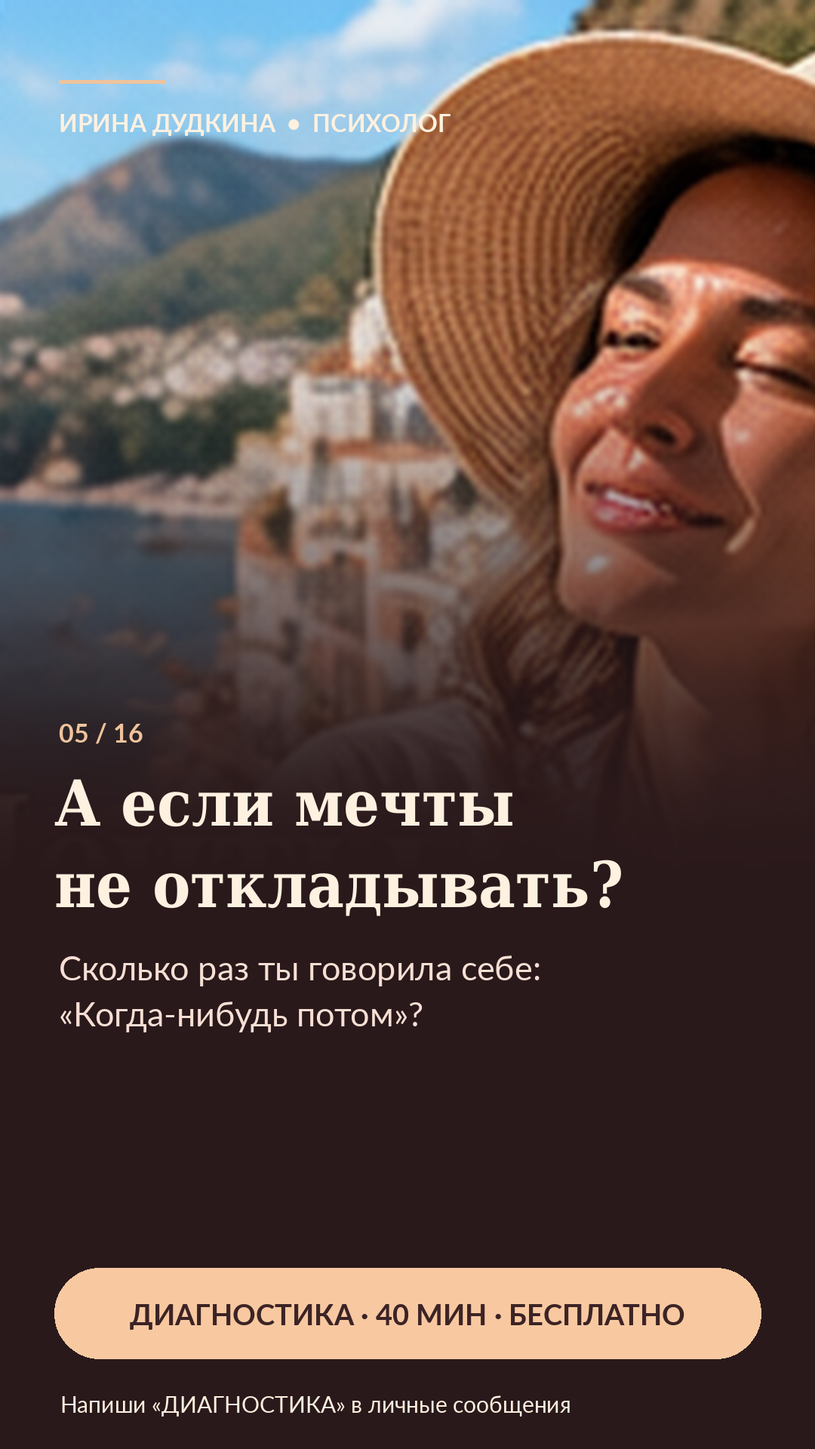
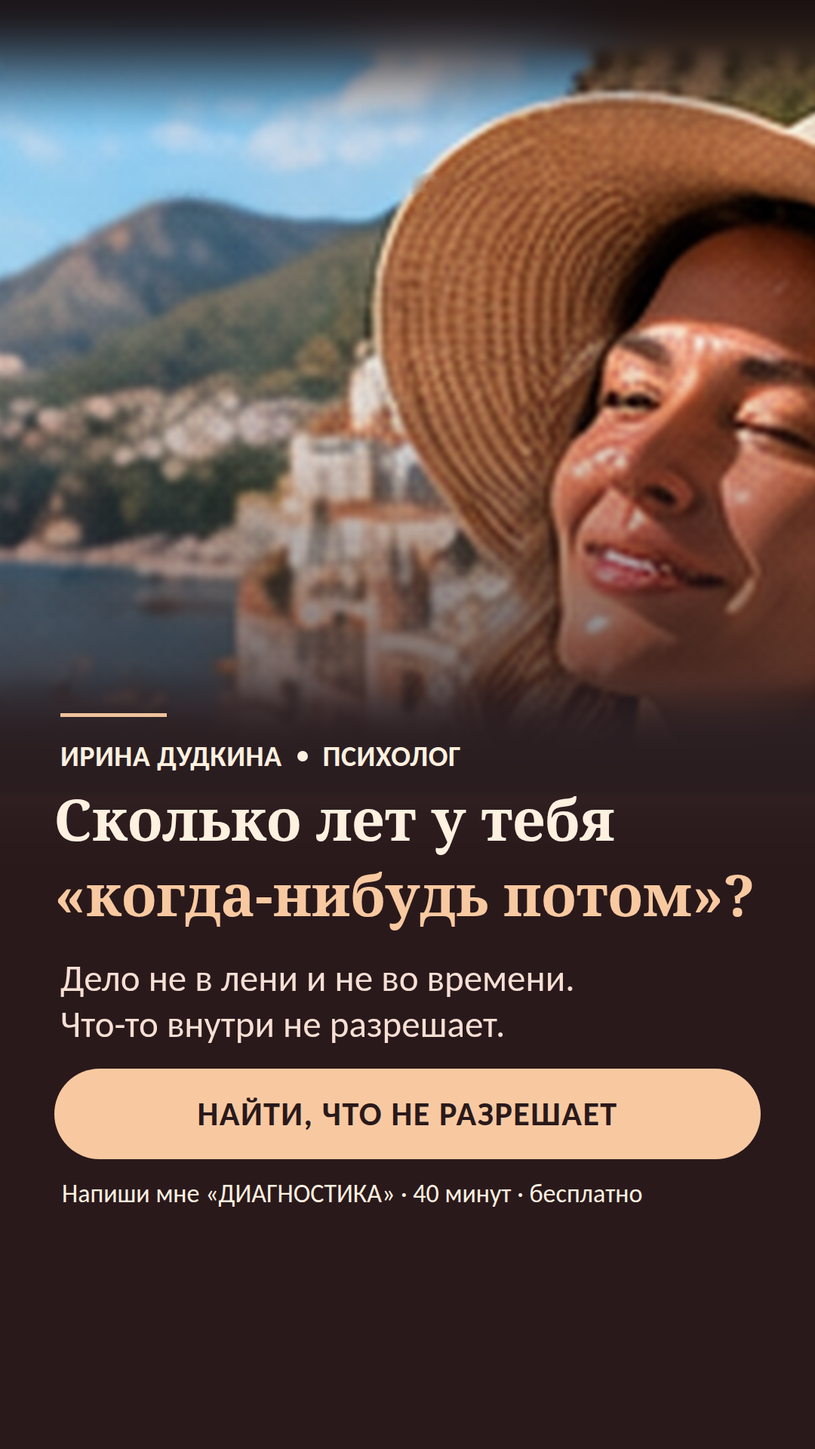
Сторис 495: карточки 02–16 — новые тексты, подпись над заголовком, фото ниже
Claude-Session: https://claude.ai/code/session_01EKeGyzNa55RqxsM18gNEzL

diff --git a/stories-495.html b/stories-495.html
@@ -1,17 +1,17 @@
 <!doctype html><html lang="ru"><head><meta charset="utf-8"><meta name="viewport" content="width=device-width, initial-scale=1"><meta name="robots" content="noindex,nofollow"><title>Карточки Instagram — Ирина Дудкина</title><style>
 :root{color-scheme:light}*{box-sizing:border-box}body{margin:0;background:#f6f0e8;color:#2b2525;font:16px/1.55 system-ui,-apple-system,Arial,sans-serif}header{background:linear-gradient(130deg,#34272a,#69464a);color:#fff;padding:64px max(24px,calc((100% - 1240px)/2)) 72px}.eyebrow{color:#f4cdb3;font-size:12px;font-weight:700;letter-spacing:.22em;text-transform:uppercase}h1{font:normal clamp(40px,6vw,76px)/1.06 Georgia,serif;margin:17px 0 22px}header p{max-width:750px;color:#eee0d9}main{max-width:1280px;margin:auto;padding:38px 24px 95px}.intro{display:flex;justify-content:space-between;align-items:center;gap:14px;flex-wrap:wrap;padding:0 0 22px;border-bottom:1px solid #d6c8bf;margin-bottom:30px}.intro strong{font:normal 26px Georgia,serif}.intro span{color:#716560;font-size:13px}.grid{display:grid;grid-template-columns:repeat(4,minmax(0,1fr));gap:24px}.card{background:#fff;border-radius:15px;overflow:hidden;box-shadow:0 10px 35px #523b2c12}.poster{aspect-ratio:9/16;background:#e8d0c3;position:relative;overflow:hidden}.poster img{width:100%;height:100%;display:block;object-fit:cover}.pending{display:none;position:absolute;inset:0;align-items:center;justify-content:center;text-align:center;padding:25px;color:#78675e;font-size:13px}.poster.missing .pending{display:flex}.poster.missing img{display:none}.meta{padding:18px}.number{font-size:11px;letter-spacing:.16em;color:#b27967;font-weight:700}h2{font:normal 22px/1.18 Georgia,serif;margin:7px 0}.meta p{font-size:13px;color:#756b64;margin:5px 0 17px}.meta a{display:block;border-radius:8px;padding:10px 13px;text-align:center;background:#673f48;color:white;text-decoration:none;font-size:13px;font-weight:600}.meta a:hover{background:#42272e}footer{text-align:center;padding:40px 24px;color:#857972;font-size:12px}@media(max-width:1000px){.grid{grid-template-columns:repeat(3,minmax(0,1fr))}}@media(max-width:720px){.grid{grid-template-columns:repeat(2,minmax(0,1fr));gap:12px}.meta{padding:12px}h2{font-size:17px}.meta a{font-size:12px}}@media(max-width:390px){.grid{grid-template-columns:1fr 1fr;gap:8px}.meta{padding:10px}}</style></head><body><header><div class="eyebrow">Instagram Stories · Ирина Дудкина</div><h1>Жизнь, которая<br>начинается с тебя</h1><p>16 фотокарточек для сторис: женские роли, отношения, самореализация и внутренняя опора. Яркие жизненные образы и эмоциональные заголовки — с приглашением на бесплатную диагностику, 40 минут.</p></header><main><div class="intro"><strong>Коллекция / 16 историй</strong><span>Вертикальный формат 9:16 · PNG 1080 × 1920</span></div><section class="grid"><article class="card"><div class="poster"><img loading="lazy" src="irina-story-01.png?v=5b0d472c6188" alt="Опять согласилась на меньшее?" onerror="this.parentElement.classList.add('missing')"><span class="pending">Изображение ожидает загрузки</span></div><div class="meta"><div class="number">01 / 16</div><h2>Опять согласилась на меньшее?</h2><p>Самоценность</p><a href="irina-story-01.png?v=5b0d472c6188" download="irina-story-01.png">Скачать PNG <span aria-hidden="true">↗</span></a></div></article>
-<article class="card"><div class="poster"><img loading="lazy" src="irina-story-02.png?v=0d8dadcc4d91" alt="Устала быть сильной?" onerror="this.parentElement.classList.add('missing')"><span class="pending">Изображение ожидает загрузки</span></div><div class="meta"><div class="number">02 / 16</div><h2>Устала быть сильной?</h2><p>Усталость и выгорание</p><a href="irina-story-02.png?v=0d8dadcc4d91" download="irina-story-02.png">Скачать PNG <span aria-hidden="true">↗</span></a></div></article>
-<article class="card"><div class="poster"><img loading="lazy" src="irina-story-03.png?v=d58f27d6fb26" alt="А ты есть в своей жизни?" onerror="this.parentElement.classList.add('missing')"><span class="pending">Изображение ожидает загрузки</span></div><div class="meta"><div class="number">03 / 16</div><h2>А ты есть в своей жизни?</h2><p>Личные потребности</p><a href="irina-story-03.png?v=d58f27d6fb26" download="irina-story-03.png">Скачать PNG <span aria-hidden="true">↗</span></a></div></article>
-<article class="card"><div class="poster"><img loading="lazy" src="irina-story-04.png?v=0c5a9c85331c" alt="Выбирать себя — не эгоизм" onerror="this.parentElement.classList.add('missing')"><span class="pending">Изображение ожидает загрузки</span></div><div class="meta"><div class="number">04 / 16</div><h2>Выбирать себя — не эгоизм</h2><p>Внутренняя свобода</p><a href="irina-story-04.png?v=0c5a9c85331c" download="irina-story-04.png">Скачать PNG <span aria-hidden="true">↗</span></a></div></article>
-<article class="card"><div class="poster"><img loading="lazy" src="irina-story-05.png?v=5cc19624cd84" alt="А если мечты не откладывать?" onerror="this.parentElement.classList.add('missing')"><span class="pending">Изображение ожидает загрузки</span></div><div class="meta"><div class="number">05 / 16</div><h2>А если мечты не откладывать?</h2><p>Мечты и реализация</p><a href="irina-story-05.png?v=5cc19624cd84" download="irina-story-05.png">Скачать PNG <span aria-hidden="true">↗</span></a></div></article>
-<article class="card"><div class="poster"><img loading="lazy" src="irina-story-06.png?v=19c227373106" alt="Мама — не единственная роль" onerror="this.parentElement.classList.add('missing')"><span class="pending">Изображение ожидает загрузки</span></div><div class="meta"><div class="number">06 / 16</div><h2>Мама — не единственная роль</h2><p>Материнство и личность</p><a href="irina-story-06.png?v=19c227373106" download="irina-story-06.png">Скачать PNG <span aria-hidden="true">↗</span></a></div></article>
-<article class="card"><div class="poster"><img loading="lazy" src="irina-story-07.png?v=3dee7898a746" alt="Хочется просто выдохнуть?" onerror="this.parentElement.classList.add('missing')"><span class="pending">Изображение ожидает загрузки</span></div><div class="meta"><div class="number">07 / 16</div><h2>Хочется просто выдохнуть?</h2><p>Близость и отношения</p><a href="irina-story-07.png?v=3dee7898a746" download="irina-story-07.png">Скачать PNG <span aria-hidden="true">↗</span></a></div></article>
-<article class="card"><div class="poster"><img loading="lazy" src="irina-story-08.png?v=f81aa6eb1262" alt="Не доказывай. Живи." onerror="this.parentElement.classList.add('missing')"><span class="pending">Изображение ожидает загрузки</span></div><div class="meta"><div class="number">08 / 16</div><h2>Не доказывай. Живи.</h2><p>Самооценка и уверенность</p><a href="irina-story-08.png?v=f81aa6eb1262" download="irina-story-08.png">Скачать PNG <span aria-hidden="true">↗</span></a></div></article>
-<article class="card"><div class="poster"><img loading="lazy" src="irina-story-09.png?v=0a1191891741" alt="Сценарий повторяется?" onerror="this.parentElement.classList.add('missing')"><span class="pending">Изображение ожидает загрузки</span></div><div class="meta"><div class="number">09 / 16</div><h2>Сценарий повторяется?</h2><p>Повторяющиеся сценарии</p><a href="irina-story-09.png?v=0a1191891741" download="irina-story-09.png">Скачать PNG <span aria-hidden="true">↗</span></a></div></article>
-<article class="card"><div class="poster"><img loading="lazy" src="irina-story-10.png?v=8629b3447278" alt="Ты — больше, чем отношения" onerror="this.parentElement.classList.add('missing')"><span class="pending">Изображение ожидает загрузки</span></div><div class="meta"><div class="number">10 / 16</div><h2>Ты — больше, чем отношения</h2><p>Равновесие</p><a href="irina-story-10.png?v=8629b3447278" download="irina-story-10.png">Скачать PNG <span aria-hidden="true">↗</span></a></div></article>
-<article class="card"><div class="poster"><img loading="lazy" src="irina-story-11.png?v=fc245c4db880" alt="Забота о себе — не роскошь" onerror="this.parentElement.classList.add('missing')"><span class="pending">Изображение ожидает загрузки</span></div><div class="meta"><div class="number">11 / 16</div><h2>Забота о себе — не роскошь</h2><p>Бережная забота о себе</p><a href="irina-story-11.png?v=fc245c4db880" download="irina-story-11.png">Скачать PNG <span aria-hidden="true">↗</span></a></div></article>
-<article class="card"><div class="poster"><img loading="lazy" src="irina-story-12.png?v=e12ed96d947f" alt="Можно по-другому" onerror="this.parentElement.classList.add('missing')"><span class="pending">Изображение ожидает загрузки</span></div><div class="meta"><div class="number">12 / 16</div><h2>Можно по-другому</h2><p>Право на счастье</p><a href="irina-story-12.png?v=e12ed96d947f" download="irina-story-12.png">Скачать PNG <span aria-hidden="true">↗</span></a></div></article>
-<article class="card"><div class="poster"><img loading="lazy" src="irina-story-13.png?v=ae4b40074836" alt="Жизнь не на паузе" onerror="this.parentElement.classList.add('missing')"><span class="pending">Изображение ожидает загрузки</span></div><div class="meta"><div class="number">13 / 16</div><h2>Жизнь не на паузе</h2><p>Перемены</p><a href="irina-story-13.png?v=ae4b40074836" download="irina-story-13.png">Скачать PNG <span aria-hidden="true">↗</span></a></div></article>
-<article class="card"><div class="poster"><img loading="lazy" src="irina-story-14.png?v=28302b5c16cb" alt="Чего хочешь именно ты?" onerror="this.parentElement.classList.add('missing')"><span class="pending">Изображение ожидает загрузки</span></div><div class="meta"><div class="number">14 / 16</div><h2>Чего хочешь именно ты?</h2><p>Слышать свои желания</p><a href="irina-story-14.png?v=28302b5c16cb" download="irina-story-14.png">Скачать PNG <span aria-hidden="true">↗</span></a></div></article>
-<article class="card"><div class="poster"><img loading="lazy" src="irina-story-15.png?v=ed31101e9b89" alt="Больше возможностей" onerror="this.parentElement.classList.add('missing')"><span class="pending">Изображение ожидает загрузки</span></div><div class="meta"><div class="number">15 / 16</div><h2>Больше возможностей</h2><p>Возможности и деньги</p><a href="irina-story-15.png?v=ed31101e9b89" download="irina-story-15.png">Скачать PNG <span aria-hidden="true">↗</span></a></div></article>
-<article class="card"><div class="poster"><img loading="lazy" src="irina-story-16.png?v=f592653a9797" alt="Начни жить, как хочешь" onerror="this.parentElement.classList.add('missing')"><span class="pending">Изображение ожидает загрузки</span></div><div class="meta"><div class="number">16 / 16</div><h2>Начни жить, как хочешь</h2><p>Первый шаг</p><a href="irina-story-16.png?v=f592653a9797" download="irina-story-16.png">Скачать PNG <span aria-hidden="true">↗</span></a></div></article></section></main><footer>Ирина Дудкина · Материалы для Instagram · 2026</footer><script>document.querySelectorAll('.meta a').forEach(link=>link.addEventListener('click',async event=>{event.preventDefault();const original=link.textContent;link.textContent='Скачиваем…';try{const response=await fetch(link.href);if(!response.ok)throw new Error('PNG пока не опубликован');const blob=await response.blob();const url=URL.createObjectURL(blob),a=document.createElement('a');a.href=url;a.download=link.getAttribute('download');document.body.appendChild(a);a.click();a.remove();setTimeout(()=>URL.revokeObjectURL(url),30000)}catch(err){alert('Карточка пока не загружена на GitHub или недоступна. Проверь публикацию ZIP.')}finally{link.textContent=original}}));</script></body></html>
+<article class="card"><div class="poster"><img loading="lazy" src="irina-story-02.png?v=ad6d2bf90d02" alt="Ты сильная. И ты так устала." onerror="this.parentElement.classList.add('missing')"><span class="pending">Изображение ожидает загрузки</span></div><div class="meta"><div class="number">02 / 16</div><h2>Ты сильная. И ты так устала.</h2><p>Усталость и силы</p><a href="irina-story-02.png?v=ad6d2bf90d02" download="irina-story-02.png">Скачать PNG <span aria-hidden="true">↗</span></a></div></article>
+<article class="card"><div class="poster"><img loading="lazy" src="irina-story-03.png?v=575091ba2cee" alt="Одна фраза — и тебя накрыло?" onerror="this.parentElement.classList.add('missing')"><span class="pending">Изображение ожидает загрузки</span></div><div class="meta"><div class="number">03 / 16</div><h2>Одна фраза — и тебя накрыло?</h2><p>Триггеры</p><a href="irina-story-03.png?v=575091ba2cee" download="irina-story-03.png">Скачать PNG <span aria-hidden="true">↗</span></a></div></article>
+<article class="card"><div class="poster"><img loading="lazy" src="irina-story-04.png?v=2e18e93d9722" alt="Всё под контролем. А покоя нет." onerror="this.parentElement.classList.add('missing')"><span class="pending">Изображение ожидает загрузки</span></div><div class="meta"><div class="number">04 / 16</div><h2>Всё под контролем. А покоя нет.</h2><p>Контроль и тревога</p><a href="irina-story-04.png?v=2e18e93d9722" download="irina-story-04.png">Скачать PNG <span aria-hidden="true">↗</span></a></div></article>
+<article class="card"><div class="poster"><img loading="lazy" src="irina-story-05.png?v=519d14809d20" alt="Сколько лет у тебя «когда-нибудь потом»?" onerror="this.parentElement.classList.add('missing')"><span class="pending">Изображение ожидает загрузки</span></div><div class="meta"><div class="number">05 / 16</div><h2>Сколько лет у тебя «когда-нибудь потом»?</h2><p>«Когда-нибудь потом»</p><a href="irina-story-05.png?v=519d14809d20" download="irina-story-05.png">Скачать PNG <span aria-hidden="true">↗</span></a></div></article>
+<article class="card"><div class="poster"><img loading="lazy" src="irina-story-06.png?v=c7082229bc40" alt="Ловишь себя на маминых фразах?" onerror="this.parentElement.classList.add('missing')"><span class="pending">Изображение ожидает загрузки</span></div><div class="meta"><div class="number">06 / 16</div><h2>Ловишь себя на маминых фразах?</h2><p>Мамин сценарий</p><a href="irina-story-06.png?v=c7082229bc40" download="irina-story-06.png">Скачать PNG <span aria-hidden="true">↗</span></a></div></article>
+<article class="card"><div class="poster"><img loading="lazy" src="irina-story-07.png?v=2ea38ae233a4" alt="Простила? А внутри всё ещё болит." onerror="this.parentElement.classList.add('missing')"><span class="pending">Изображение ожидает загрузки</span></div><div class="meta"><div class="number">07 / 16</div><h2>Простила? А внутри всё ещё болит.</h2><p>Обида</p><a href="irina-story-07.png?v=2ea38ae233a4" download="irina-story-07.png">Скачать PNG <span aria-hidden="true">↗</span></a></div></article>
+<article class="card"><div class="poster"><img loading="lazy" src="irina-story-08.png?v=1a87d7a2aaee" alt="Всё умеешь. А показать — страшно." onerror="this.parentElement.classList.add('missing')"><span class="pending">Изображение ожидает загрузки</span></div><div class="meta"><div class="number">08 / 16</div><h2>Всё умеешь. А показать — страшно.</h2><p>Страх проявиться</p><a href="irina-story-08.png?v=1a87d7a2aaee" download="irina-story-08.png">Скачать PNG <span aria-hidden="true">↗</span></a></div></article>
+<article class="card"><div class="poster"><img loading="lazy" src="irina-story-09.png?v=b607321c2763" alt="Лица разные. Боль — одна и та же." onerror="this.parentElement.classList.add('missing')"><span class="pending">Изображение ожидает загрузки</span></div><div class="meta"><div class="number">09 / 16</div><h2>Лица разные. Боль — одна и та же.</h2><p>Повторяющийся сценарий</p><a href="irina-story-09.png?v=b607321c2763" download="irina-story-09.png">Скачать PNG <span aria-hidden="true">↗</span></a></div></article>
+<article class="card"><div class="poster"><img loading="lazy" src="irina-story-10.png?v=3aaecd4d9f0e" alt="Без него ты — кто?" onerror="this.parentElement.classList.add('missing')"><span class="pending">Изображение ожидает загрузки</span></div><div class="meta"><div class="number">10 / 16</div><h2>Без него ты — кто?</h2><p>Потерянная опора</p><a href="irina-story-10.png?v=3aaecd4d9f0e" download="irina-story-10.png">Скачать PNG <span aria-hidden="true">↗</span></a></div></article>
+<article class="card"><div class="poster"><img loading="lazy" src="irina-story-11.png?v=97d69421f827" alt="Отдохнула. А внутри всё равно сжато." onerror="this.parentElement.classList.add('missing')"><span class="pending">Изображение ожидает загрузки</span></div><div class="meta"><div class="number">11 / 16</div><h2>Отдохнула. А внутри всё равно сжато.</h2><p>Напряжение после отдыха</p><a href="irina-story-11.png?v=97d69421f827" download="irina-story-11.png">Скачать PNG <span aria-hidden="true">↗</span></a></div></article>
+<article class="card"><div class="poster"><img loading="lazy" src="irina-story-12.png?v=27b43bc8ff25" alt="Улыбаешься. А внутри — «не хочу»." onerror="this.parentElement.classList.add('missing')"><span class="pending">Изображение ожидает загрузки</span></div><div class="meta"><div class="number">12 / 16</div><h2>Улыбаешься. А внутри — «не хочу».</h2><p>Вина и «да» вместо «нет»</p><a href="irina-story-12.png?v=27b43bc8ff25" download="irina-story-12.png">Скачать PNG <span aria-hidden="true">↗</span></a></div></article>
+<article class="card"><div class="poster"><img loading="lazy" src="irina-story-13.png?v=41f876f01f03" alt="Он давно ушёл. А ты всё ещё там." onerror="this.parentElement.classList.add('missing')"><span class="pending">Изображение ожидает загрузки</span></div><div class="meta"><div class="number">13 / 16</div><h2>Он давно ушёл. А ты всё ещё там.</h2><p>Прошлые отношения</p><a href="irina-story-13.png?v=41f876f01f03" download="irina-story-13.png">Скачать PNG <span aria-hidden="true">↗</span></a></div></article>
+<article class="card"><div class="poster"><img loading="lazy" src="irina-story-14.png?v=218b7b9cb315" alt="Ищешь папу в каждом мужчине?" onerror="this.parentElement.classList.add('missing')"><span class="pending">Изображение ожидает загрузки</span></div><div class="meta"><div class="number">14 / 16</div><h2>Ищешь папу в каждом мужчине?</h2><p>Папин сценарий</p><a href="irina-story-14.png?v=218b7b9cb315" download="irina-story-14.png">Скачать PNG <span aria-hidden="true">↗</span></a></div></article>
+<article class="card"><div class="poster"><img loading="lazy" src="irina-story-15.png?v=f17fcb339c30" alt="Деньги приходят — и сразу уходят." onerror="this.parentElement.classList.add('missing')"><span class="pending">Изображение ожидает загрузки</span></div><div class="meta"><div class="number">15 / 16</div><h2>Деньги приходят — и сразу уходят.</h2><p>Деньги утекают</p><a href="irina-story-15.png?v=f17fcb339c30" download="irina-story-15.png">Скачать PNG <span aria-hidden="true">↗</span></a></div></article>
+<article class="card"><div class="poster"><img loading="lazy" src="irina-story-16.png?v=a38d848086c4" alt="Выше этой суммы — никак?" onerror="this.parentElement.classList.add('missing')"><span class="pending">Изображение ожидает загрузки</span></div><div class="meta"><div class="number">16 / 16</div><h2>Выше этой суммы — никак?</h2><p>Денежный потолок</p><a href="irina-story-16.png?v=a38d848086c4" download="irina-story-16.png">Скачать PNG <span aria-hidden="true">↗</span></a></div></article></section></main><footer>Ирина Дудкина · Материалы для Instagram · 2026</footer><script>document.querySelectorAll('.meta a').forEach(link=>link.addEventListener('click',async event=>{event.preventDefault();const original=link.textContent;link.textContent='Скачиваем…';try{const response=await fetch(link.href);if(!response.ok)throw new Error('PNG пока не опубликован');const blob=await response.blob();const url=URL.createObjectURL(blob),a=document.createElement('a');a.href=url;a.download=link.getAttribute('download');document.body.appendChild(a);a.click();a.remove();setTimeout(()=>URL.revokeObjectURL(url),30000)}catch(err){alert('Карточка пока не загружена на GitHub или недоступна. Проверь публикацию ZIP.')}finally{link.textContent=original}}));</script></body></html>
